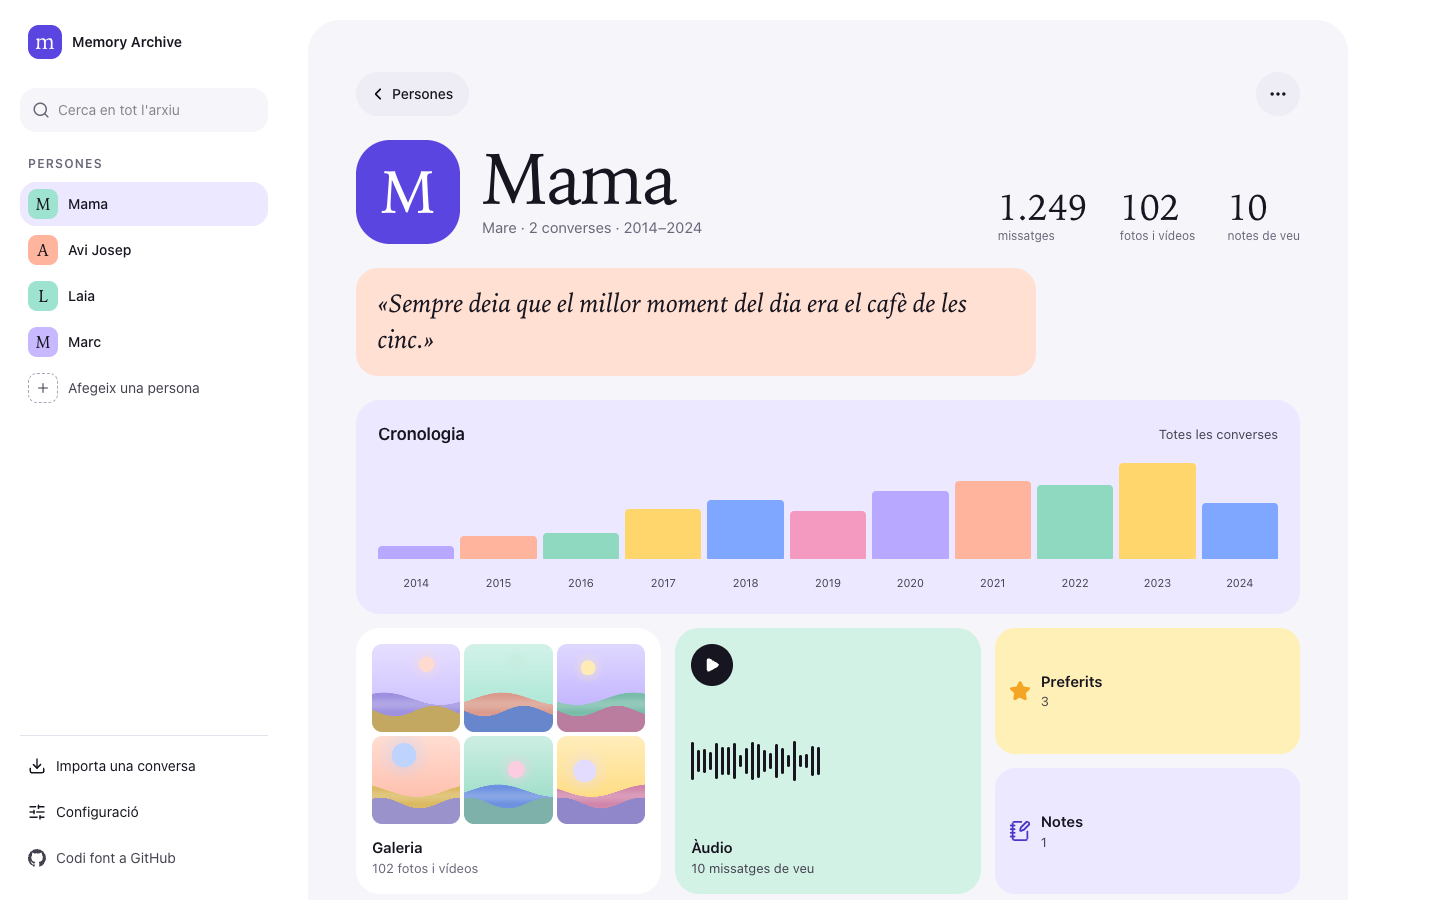
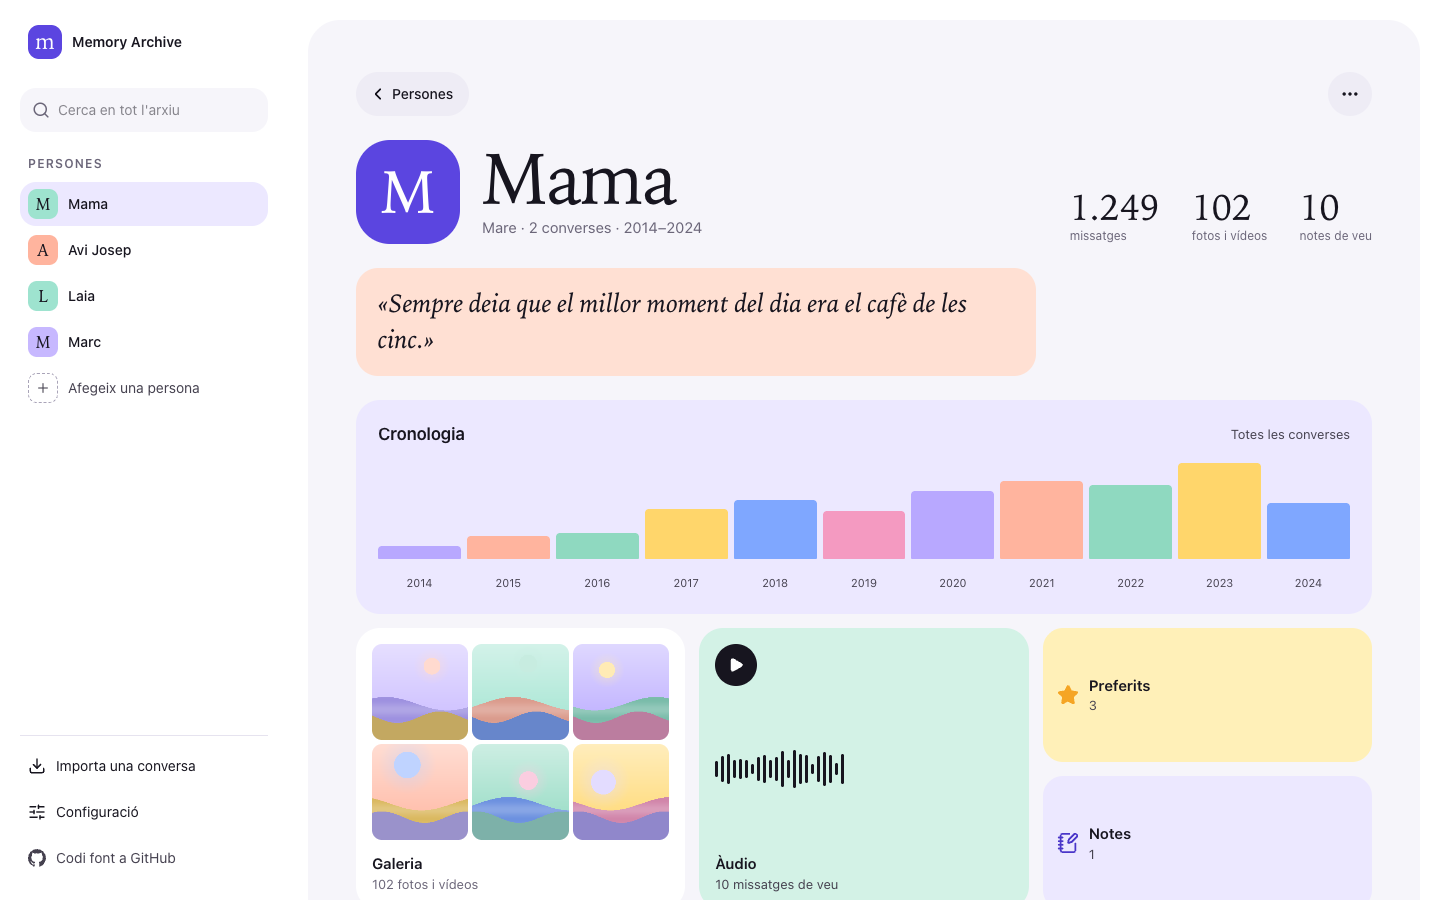
fix: full-width desktop layout, history back link, clean release commits
- Desktop: the content panel fills the window instead of stopping at
  1040 px; conversation and timeline get the sidebar and full width too
  (FeedShell), with the floating toolbar capped and centred.
- Import history goes back to where it was opened from: Settings by
  default, the Import tab when opened from the import screens, or the
  person.
- release.yml strips the Co-authored-by trailers GitHub's merge button
  adds to release commits: it recreates the commit (same tree, parent and
  author) and force-pushes main with a lease before tagging
  (scripts/clean-release-message.mjs + test).

diff --git a/e2e/history.spec.ts b/e2e/history.spec.ts
@@ -56,7 +56,7 @@ test('the same ZIP twice adds nothing: one entry in the history, and the counts 
   expect(await overflowsHorizontally(page)).toBe(false);
 
   // The same file again, from the history's own way back into the wizard.
-  await page.getByRole('link', { name: 'Back to People' }).click();
+  await page.getByRole('link', { name: 'Back to Import' }).click();
   await importFromPeople(page, exportZip(), 'Mama', 'Finish without adding anything');
   await expect(page.getByText('No new messages were added to Mama.')).toBeVisible();
   await seeHistory(page);
@@ -65,7 +65,8 @@ test('the same ZIP twice adds nothing: one entry in the history, and the counts 
   await expect(entry.getByText('4 new messages added.')).toBeVisible();
 
   // People and the person's page: still one conversation with 4 messages.
-  await page.getByRole('link', { name: 'Back to People' }).click();
+  await page.getByRole('link', { name: 'Back to Import' }).click();
+  await page.goto('/en/people/');
   await expect(page.getByText(/1 conversation/)).toBeVisible();
   await page.getByRole('main').getByRole('link', { name: 'Mama', exact: true }).click();
   await expect(page.getByRole('list', { name: 'Conversations' }).getByRole('listitem')).toHaveCount(1);
@@ -129,7 +130,8 @@ test('undo from the history removes that import: its messages and the conversati
   await expect(page.getByRole('heading', { level: 2, name: 'Nothing has been imported yet' })).toBeVisible();
   await expect(page.getByRole('heading', { level: 1, name: 'Import history' })).toBeFocused();
 
-  await page.getByRole('link', { name: 'Back to People' }).click();
+  await page.getByRole('link', { name: 'Back to Import' }).click();
+  await page.goto('/en/people/');
   await expect(page.getByRole('list', { name: 'People' }).getByText('No conversations yet')).toBeVisible();
 });
 
@@ -140,6 +142,9 @@ test('Catalan: the history and its empty state are in Catalan, and the settings 
   await expect(page.getByRole('heading', { level: 1, name: 'Historial d’importacions' })).toBeVisible();
   await expect(page.getByRole('heading', { level: 2, name: 'Encara no s’ha importat res' })).toBeVisible();
   expect(await overflowsHorizontally(page)).toBe(false);
+  // Opened from Settings, the way back is to Settings.
+  await page.getByRole('link', { name: 'Torna a Configuració' }).click();
+  await expect(page).toHaveURL(/\/ca\/settings\/$/);
 });
 
 // ── Phase 4: closing the tab in the middle of an import leaves the archive intact ─────────────

diff --git a/components/screen-shell.tsx b/components/screen-shell.tsx
@@ -15,7 +15,7 @@ import { isTopLevel } from './nav-items';
  * - Phones and tablets: top-level screens (People, Search, Import, Settings) get the floating tab
  *   bar; a sub-screen passes `back` and gets a back pill instead (`back.label` defaults to "Back").
  * - Desktop (from `lg`): the sidebar on the left for all of them, and the content in a rounded
- *   `sf` panel (max 1040 px).
+ *   `sf` panel that fills the rest of the window.
  * The polite status region lives here, in every state of a screen, so a message set while a form
  * closes is announced by a region that was already on screen.
  */
@@ -42,7 +42,7 @@ export function Shell({
           data-panel
           className={cn(
             'mx-auto flex w-full max-w-3xl flex-col gap-5 px-5 pt-8 sm:px-6 sm:pt-12',
-            'lg:bg-sf lg:mx-0 lg:min-h-[calc(100dvh-2.5rem)] lg:max-w-[1040px] lg:gap-6 lg:rounded-[32px] lg:p-12',
+            'lg:bg-sf lg:mx-0 lg:min-h-[calc(100dvh-2.5rem)] lg:max-w-none lg:gap-6 lg:rounded-[32px] lg:p-12',
             // Room under the content for the floating tab bar.
             focused ? 'pb-0 lg:pb-12' : topLevel ? 'pb-32' : 'pb-16',
           )}
@@ -60,6 +60,19 @@ export function Shell({
         </main>
       </div>
       {topLevel && <TabBar />}
+    </div>
+  );
+}
+
+/**
+ * The frame of a full-height screen with its own scrolling feed (a conversation, a timeline): a
+ * single column on phones, and on desktop the sidebar plus the feed filling the rest of the window.
+ */
+export function FeedShell({ children }: { children: ReactNode }) {
+  return (
+    <div className="lg:flex">
+      <Sidebar />
+      <div className="mx-auto flex h-dvh w-full max-w-3xl min-w-0 flex-col lg:mx-0 lg:max-w-none lg:flex-1">{children}</div>
     </div>
   );
 }

diff --git a/scripts/clean-release-message.test.ts b/scripts/clean-release-message.test.ts
@@ -1,0 +1,35 @@
+import { describe, expect, test } from 'vitest';
+import { cleanReleaseMessage } from './clean-release-message.mjs';
+
+describe('clean-release-message', () => {
+  test('drops the block GitHub appends on a web squash-merge, with its co-authors', () => {
+    const merged = [
+      'release: v0.4.0 (#62)',
+      '',
+      'Release v0.4.0: the app redesign.',
+      '',
+      '---------',
+      '',
+      'Co-authored-by: Someone <someone@example.com>',
+      'Co-authored-by: github-actions[bot] <41898282+github-actions[bot]@users.noreply.github.com>',
+      '',
+    ].join('\n');
+    expect(cleanReleaseMessage(merged)).toBe('release: v0.4.0 (#62)\n\nRelease v0.4.0: the app redesign.\n');
+  });
+
+  test('drops co-author trailers even without the separator, in any case', () => {
+    const msg = 'release: v1.0.0 (#9)\n\nBody.\n\nCo-Authored-By: A <a@example.com>\nco-authored-by: B <b@example.com>\n';
+    expect(cleanReleaseMessage(msg)).toBe('release: v1.0.0 (#9)\n\nBody.\n');
+  });
+
+  test('a clean message comes back unchanged', () => {
+    const msg = 'release: v0.3.0 (#58)\n\nShort body.\n';
+    expect(cleanReleaseMessage(msg)).toBe(msg);
+    expect(cleanReleaseMessage('release: v0.3.0')).toBe('release: v0.3.0\n');
+  });
+
+  test('keeps a dash line that is not exactly the nine-dash separator', () => {
+    const msg = 'release: v0.5.0 (#70)\n\n- a list item\n----\nend\n';
+    expect(cleanReleaseMessage(msg)).toBe(msg);
+  });
+});

diff --git a/components/conversation-screen.tsx b/components/conversation-screen.tsx
@@ -12,7 +12,7 @@ import { PageTitle } from '@/components/page-title';
 import { PersonAvatar } from '@/components/person-avatar';
 import { PillButton } from '@/components/pill-button';
 import { SectionCard } from '@/components/section-card';
-import { Shell } from '@/components/screen-shell';
+import { FeedShell, Shell } from '@/components/screen-shell';
 import { isDateParam, useConversation, type OpenConversation } from '@/hooks/use-conversation';
 import { useLibrary, useLibraryDeps } from '@/hooks/use-library';
 import { Link } from '@/i18n/navigation';
@@ -90,7 +90,7 @@ function ConversationContent({ onRetry }: { onRetry: () => void }) {
   const backLabel = back ? t('back', { name: back.name }) : tn('tabs.people');
 
   return (
-    <div className="mx-auto flex h-dvh w-full max-w-3xl flex-col">
+    <FeedShell>
       <header className="bg-bg z-20 flex shrink-0 flex-wrap items-center gap-3 px-4 pt-[max(0.75rem,env(safe-area-inset-top))] pb-3">
         <BackPill href={backHref} className="size-11 shrink-0 justify-center p-0">
           <span className="sr-only">{backLabel}</span>
@@ -123,7 +123,7 @@ function ConversationContent({ onRetry }: { onRetry: () => void }) {
         <ConversationNote key={view.conversation.id} conversationId={view.conversation.id} />
       </header>
       <ConversationFeed key={view.conversation.id} conversation={conversation} />
-    </div>
+    </FeedShell>
   );
 }
 

diff --git a/components/person-timeline-screen.tsx b/components/person-timeline-screen.tsx
@@ -9,7 +9,7 @@ import { BackPill } from '@/components/back-pill';
 import { Eyebrow } from '@/components/eyebrow';
 import { usePeopleBack, usePersonBack } from '@/components/person-back';
 import { EmptyNote, ErrorNote, LoadingNote, PersonNotFound } from '@/components/screen-states';
-import { Shell } from '@/components/screen-shell';
+import { FeedShell, Shell } from '@/components/screen-shell';
 import { useLibrary, useLibraryDeps } from '@/hooks/use-library';
 import { isDateParam } from '@/hooks/use-conversation';
 import { timelinePositionKey, usePersonTimeline, type OpenTimeline } from '@/hooks/use-person-timeline';
@@ -73,7 +73,7 @@ function PersonTimelineContent() {
   const { person, bounds } = timeline;
   const dates = formatDateRange(bounds.firstSentAt, bounds.lastSentAt, locale);
   return (
-    <div className="mx-auto flex h-dvh w-full max-w-3xl flex-col">
+    <FeedShell>
       <header className="flex shrink-0 flex-col gap-2 px-4 pt-3 pb-2 sm:px-5">
         <BackPill href={personBack.href}>{personBack.label}</BackPill>
         <Eyebrow>{t('eyebrow')}</Eyebrow>
@@ -92,7 +92,7 @@ function PersonTimelineContent() {
       ) : (
         <TimelineFeed key={person.id} timeline={timeline} />
       )}
-    </div>
+    </FeedShell>
   );
 }
 

diff --git a/components/import-history-screen.tsx b/components/import-history-screen.tsx
@@ -91,6 +91,7 @@ function HistoryContent({ person, onRetry, paging }: { person: { id: string; nam
   const tu = useTranslations('import.undo');
   const tl = useTranslations('library');
   const locale = useLocale();
+  const from = useSearchParams().get('from');
   const { state, loadingMore, loadMore } = useImportHistory(person?.id ?? null, paging);
   const actions = useImportActions();
   const [panel, setPanel] = useState<Panel>();
@@ -144,7 +145,12 @@ function HistoryContent({ person, onRetry, paging }: { person: { id: string; nam
       )}
     </div>
   );
-  const back = person ? { href: `/person?id=${encodeURIComponent(person.id)}`, label: t('backPerson', { name: person.name }) } : { href: '/people', label: t('back') };
+  // Back to where the history was opened from: the person, the import tab, or Settings (its home).
+  const back = person
+    ? { href: `/person?id=${encodeURIComponent(person.id)}`, label: t('backPerson', { name: person.name }) }
+    : from === 'import'
+      ? { href: '/import', label: t('backImport') }
+      : { href: '/settings', label: t('back') };
 
   if (state.status === 'loading') {
     return (

diff --git a/components/import-history-screen.test.tsx b/components/import-history-screen.test.tsx
@@ -108,8 +108,15 @@ describe('the import history screen', () => {
     expect(view.container.querySelector('h1')?.textContent).toBe(h.title);
     expect(view.container.querySelector('h2')?.textContent).toBe(h.emptyTitle);
     expect(view.container.querySelector('a[href="/import"]')?.textContent).toBe(h.import);
-    expect(view.container.querySelector('a[href="/people"]')?.textContent).toBe(h.back);
+    expect(view.container.querySelector('a[href="/settings"]')?.textContent).toBe(h.back);
     expect(entries(view)).toHaveLength(0);
+  });
+
+  test('goes back to the import tab when it was opened from there', async () => {
+    view = await open(undefined, 'from=import');
+    const links = [...view.container.querySelectorAll('a[href="/import"]')].map((a) => a.textContent);
+    expect(links).toContain(h.backImport);
+    expect(view.container.querySelector('a[href="/settings"]')).toBeNull();
   });
 
   test('lists the imports newest first with what each one added, where it is kept and when', async () => {

diff --git a/components/conversation-body.tsx b/components/conversation-body.tsx
@@ -214,7 +214,7 @@ export function ConversationBody({ source }: { source: FeedSource }) {
       <div
         role="toolbar"
         aria-label={kind === 'timeline' ? tt('toolbarLabel') : t('toolbarLabel')}
-        className="bg-glass border-glass-line shadow-soft mx-4 mt-2 mb-[max(1rem,env(safe-area-inset-bottom))] grid shrink-0 grid-cols-[auto_minmax(0,1fr)_auto] gap-1 rounded-[22px] border p-1.5 backdrop-blur-[20px] backdrop-saturate-[180%]"
+        className="bg-glass border-glass-line shadow-soft mx-4 mt-2 mb-[max(1rem,env(safe-area-inset-bottom))] grid w-auto sm:mx-auto sm:w-full sm:max-w-xl shrink-0 grid-cols-[auto_minmax(0,1fr)_auto] gap-1 rounded-[22px] border p-1.5 backdrop-blur-[20px] backdrop-saturate-[180%]"
       >
         <button type="button" onClick={list.scrollToStart} className={`${toolButton} hover:bg-sf2 text-foreground`}>
           <ArrowUp aria-hidden />

diff --git a/components/import-screen.test.tsx b/components/import-screen.test.tsx
@@ -130,7 +130,7 @@ describe('the import wizard', () => {
       expect(text(view)).toContain(m.choose.empty);
       expect(buttonNamed(view, /^Continue with/)?.getAttribute('aria-disabled')).toBe('true');
       expect(view.container.querySelector('a[href="/people"]')?.textContent).toBe(m.backToPeople);
-      expect(view.container.querySelector('a[href="/import/history"]')?.textContent).toBe(m.historyLink);
+      expect(view.container.querySelector('a[href="/import/history?from=import"]')?.textContent).toBe(m.historyLink);
     });
 
     test('lists the ZIPs it is given, leaves other files out and says so, and can remove one', async () => {

diff --git a/components/import-choose.tsx b/components/import-choose.tsx
@@ -62,7 +62,7 @@ export function ImportChoose({
         </h1>
         <p className="text-mu leading-relaxed">{t('intro')}</p>
         <Link
-          href="/import/history"
+          href="/import/history?from=import"
           className="text-ac-tx focus-visible:ring-ring/50 flex min-h-11 w-fit items-center rounded-full px-2 text-sm font-medium underline underline-offset-4 outline-none focus-visible:ring-[3px]"
         >
           {t('historyLink')}

diff --git a/components/import-run.tsx b/components/import-run.tsx
@@ -185,7 +185,7 @@ export function ImportDone({
           <Link href="/people">{t('people')}</Link>
         </PillButton>
         <PillButton variant="outlined" asChild>
-          <Link href="/import/history">{t('history')}</Link>
+          <Link href="/import/history?from=import">{t('history')}</Link>
         </PillButton>
       </div>
     </div>

diff --git a/docs/branching-and-releases.md b/docs/branching-and-releases.md
@@ -22,9 +22,13 @@
 3. **Squash-merge** it. `main` gets one commit: `release: vX.Y.Z (#N)`.
 4. `release.yml` runs on the push to `main`:
    - reads the version from the commit subject (fails if it does not match);
+   - strips the `Co-authored-by:` trailers GitHub's merge button adds: it recreates the commit
+     with the PR title and body only (same tree, parent and author) and force-pushes `main` with
+     a lease (`scripts/clean-release-message.mjs`). A release PR lists all of `dev`'s older
+     commits (see History), so the web button would otherwise credit every author found there;
    - creates the tag `vX.Y.Z` and a GitHub Release with generated notes;
    - back-merges `main` into `dev` with `git merge -s ours`, so `dev` keeps `main` as an
-     ancestor and the next release PR is clean.
+     ancestor.
 
 5. `pages.yml` also runs on the push to `main` and publishes the build to GitHub Pages at
    `https://rwxce.github.io/memory-archive/` (built with `NEXT_PUBLIC_BASE_PATH=/memory-archive`).
@@ -38,4 +42,6 @@ branch that rejects the workflow's push, or if CI had to run on automatically cr
 On 2026-10-20 `main` was reset to a single commit, `release: v0.1.0` (tag `v0.1.0`), with the
 same content as the last wa-backup-era commit. The full previous history (upstream
 guionardo/wa-backup + this fork) is on `dev`, and the old `main` tip is preserved as the tag
-`pre-cleanup-main`.
+`pre-cleanup-main`. Because main was rewritten, `dev`'s commits from before the reset are not
+reachable from `main`, and every `dev` → `main` PR lists them (GitHub shows up to 100). That is
+harmless for the squash (the content diff is right) and the release workflow cleans the trailers.
